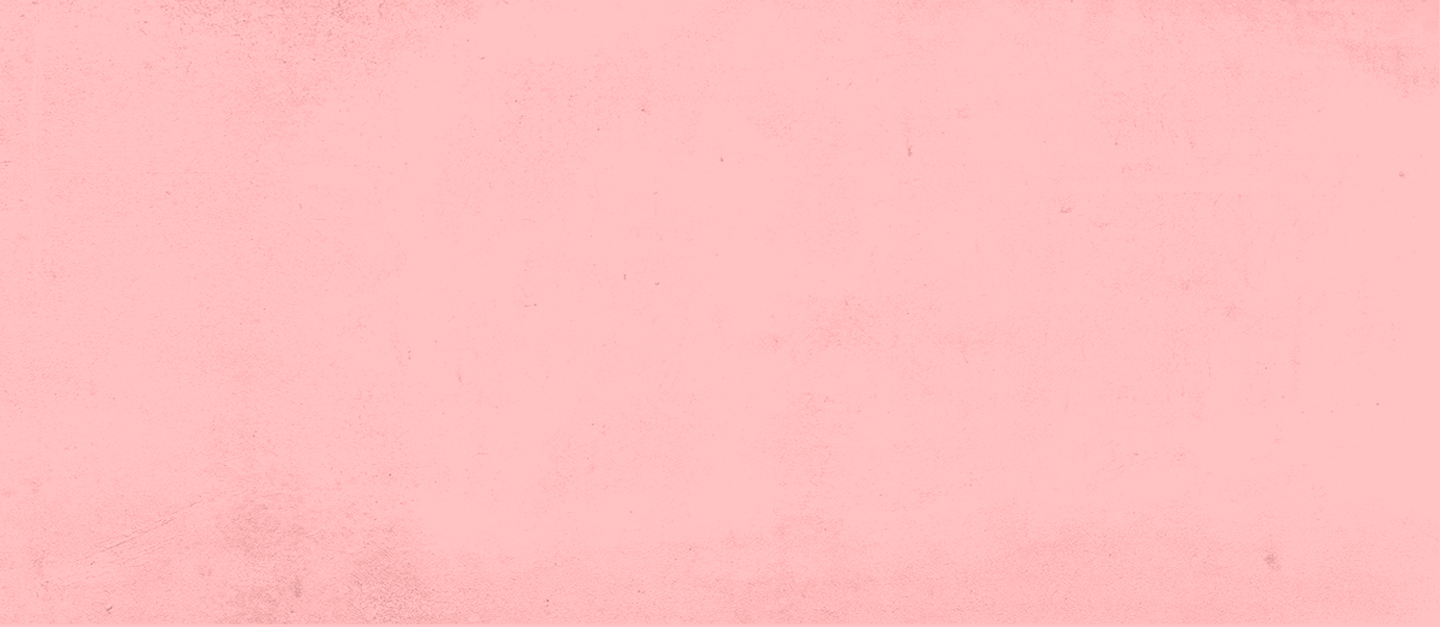
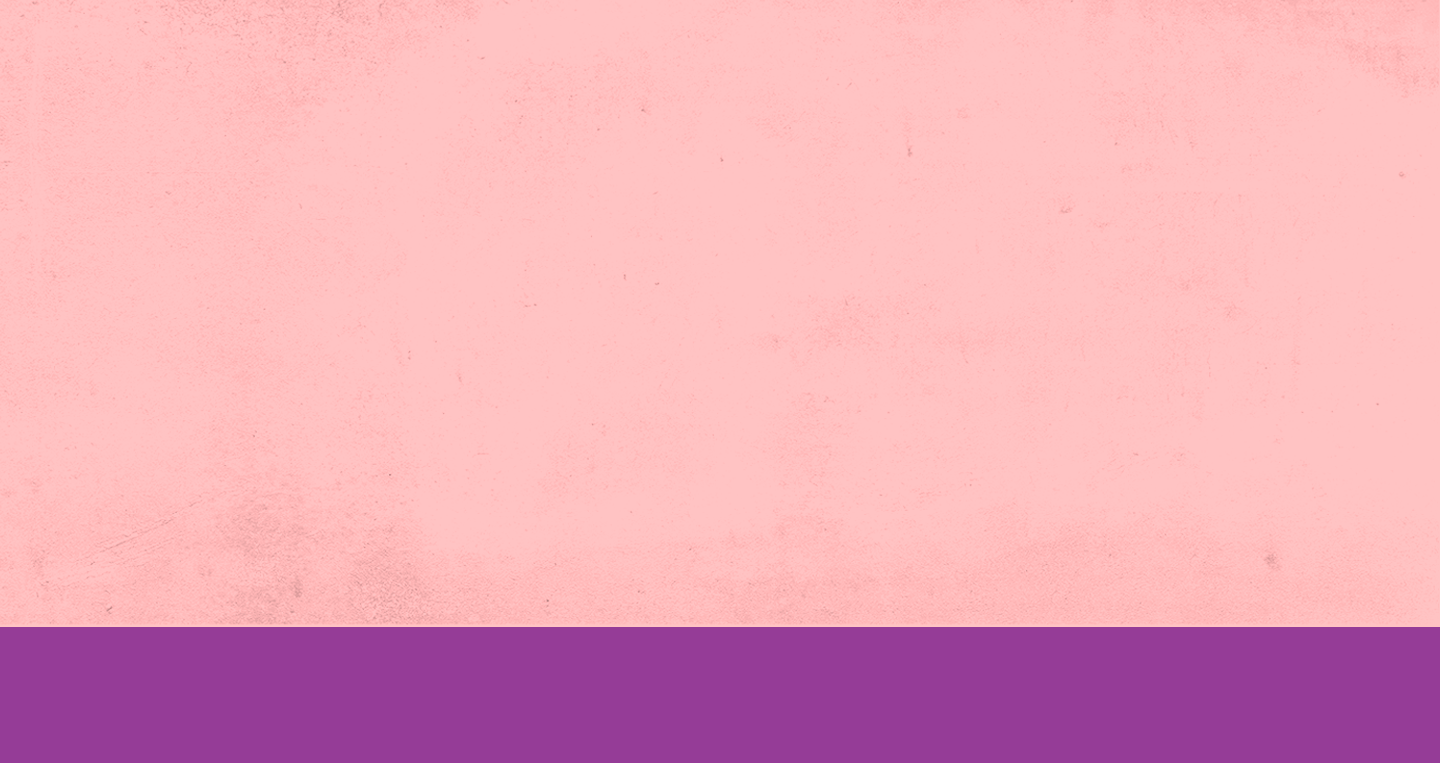
footer fix, floating social buttons

Changed region(s): [[0.0, 0.8169, 1.0, 1.0]]

diff --git a/src/components/Footer/Footer.js b/src/components/Footer/Footer.js
@@ -36,15 +36,16 @@
 // }
 
 import React from "react";
+import { Col, Container, Row } from "react-bootstrap";
 import "./Footer.css";
 
 function Footer() {
   return (
     <div className="main-footer">
-      <div className="container">
-        <div className="row">
+      <Container>
+        <Row className="row">
           {/* Column1 */}
-          <div className="col cont">
+          <Col className="col cont">
             <a href="https://www.instagram.com/arrancaconfuerza_cf">
               <img
                 src="./img/icons/icono-instagram-01.png"
@@ -52,10 +53,10 @@ function Footer() {
                 className="icon"
               />
             </a>
-            <p>@arrancaconfuerza_cf</p>
-          </div>
+            <p className="text">@arrancaconfuerza_cf</p>
+          </Col>
           {/* Column2 */}
-          <div className="col cont">
+          <Col className="col cont">
             <a href="https://wa.me/5491144979179?text=Hola!%20Me%20interesa%20obtener%20más%20información%20sobre">
               <img
                 src="./img/icons/icono-whatsapp-01.png"
@@ -63,10 +64,10 @@ function Footer() {
                 className="icon"
               />
             </a>
-            <p>+541155665587</p>
-          </div>
+            <p className="text">+541155665587</p>
+          </Col>
           {/* Column3 */}
-          <div className="col cont">
+          <Col className=" cont">
             <a href="">
               <img
                 src="./img/icons/icono-email-01.png"
@@ -74,9 +75,9 @@ function Footer() {
                 className="icon"
               />
             </a>
-            <p>@arrancaconfuerza@gmail.com</p>
-          </div>
-        </div>
+            <p className="text">@arrancaconfuerza@gmail.com</p>
+          </Col>
+        </Row>
         <hr />
         <div className="row">
           <p className="col-sm">
@@ -84,7 +85,7 @@ function Footer() {
             derechos reservados
           </p>
         </div>
-      </div>
+      </Container>
     </div>
   );
 }

diff --git a/src/App.js b/src/App.js
@@ -1,21 +1,23 @@
-import './App.css';
-import React from 'react';
+import "./App.css";
+import React from "react";
 import { BrowserRouter, Routes, Route } from "react-router-dom";
-import Home from './containers/Home/Home';
-import NavBar from './components/NavBar/NavBar';
-import Footer from './components/Footer/Footer';
-import NotFound from './containers/NotFound/NotFound';
-import TopsContainer from './containers/TopsContainer/TopsContainer';
-import ShortsContainer from './containers/ShortsContainer/ShortsContainer';
+import Home from "./containers/Home/Home";
+import NavBar from "./components/NavBar/NavBar";
+import Footer from "./components/Footer/Footer";
+import NotFound from "./containers/NotFound/NotFound";
+import TopsContainer from "./containers/TopsContainer/TopsContainer";
+import ShortsContainer from "./containers/ShortsContainer/ShortsContainer";
+import FloatingButton from "./components/FloatingButton/FloatingButton";
 
 function App() {
   return (
     <BrowserRouter>
       <NavBar />
+      <FloatingButton />
       <Routes>
         <Route path="/" element={<Home />} />
-        <Route exact path="/tops-crops" element={<TopsContainer/>} />
-        <Route exact path="/shorts-calzas" element={<ShortsContainer/>} />
+        <Route exact path="/tops-crops" element={<TopsContainer />} />
+        <Route exact path="/shorts-calzas" element={<ShortsContainer />} />
         <Route path="*" element={<NotFound />} />
       </Routes>
       <Footer />

diff --git a/src/components/FloatingButton/FloatingButton.css b/src/components/FloatingButton/FloatingButton.css
@@ -1,0 +1,41 @@
+@import "../../index.css";
+
+.buttonWp {
+  position: fixed;
+  width: 60px;
+  height: 60px;
+  bottom: 40px;
+  right: 40px;
+  background-color: var(--purple) !important;
+  color: #fff;
+  border-radius: 100%;
+  z-index: 120;
+}
+
+.buttonIg {
+  position: fixed;
+  width: 60px;
+  height: 60px;
+  bottom: 120px;
+  right: 40px;
+  background-color: var(--purple) !important;
+  color: #fff;
+  border-radius: 100%;
+  z-index: 120;
+}
+
+.a {
+  color: inherit;
+}
+
+@media screen and (max-width: 767px) {
+  .buttonIg {
+    width: 40px;
+    height: 40px;
+    bottom: 100px;
+  }
+  .buttonWp {
+    width: 40px;
+    height: 40px;
+  }
+}

diff --git a/src/components/FloatingButton/FloatingButton.js b/src/components/FloatingButton/FloatingButton.js
@@ -1,0 +1,18 @@
+import { Button } from "antd";
+import React from "react";
+import "./FloatingButton.css";
+
+const FloatingButton = () => {
+  return (
+    <div className="root">
+      <a href="https://wa.me/5491144979179?text=Hola!%20Me%20interesa%20obtener%20más%20información%20sobre">
+        <img src="./img/icons/whatsapp-02.png" alt="" className="buttonWp" />
+      </a>
+      <a href="https://www.instagram.com/arrancaconfuerza_cf">
+        <img src="./img/icons/instagram-02.png" alt="" className="buttonIg" />
+      </a>
+    </div>
+  );
+};
+
+export default FloatingButton;

diff --git a/src/components/Footer/Footer.css b/src/components/Footer/Footer.css
@@ -21,8 +21,8 @@
 }
 
 .icon {
-  width: 5rem;
-  height: 5rem;
+  width: 4rem;
+  height: 4rem;
 }
 
 .cont {
@@ -40,9 +40,26 @@
   padding-top: 3em;
   position: relative;
   bottom: 0;
-  width: 100%;
+  /*width: 100%;*/
 }
 
 .a {
   color: inherit;
+}
+
+.img {
+  width: 30%;
+}
+
+@media screen and (max-width: 767px) {
+  .text {
+    display: none;
+  }
+  .icon {
+    width: 3rem;
+    height: 3rem;
+  }
+  .col-sm {
+    font-size: xx-small;
+  }
 }
